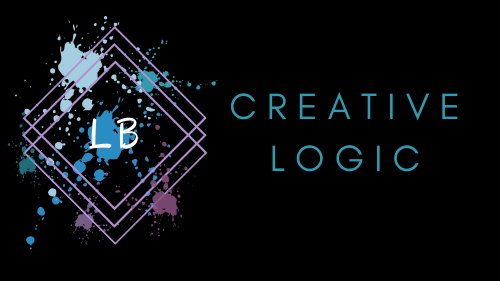
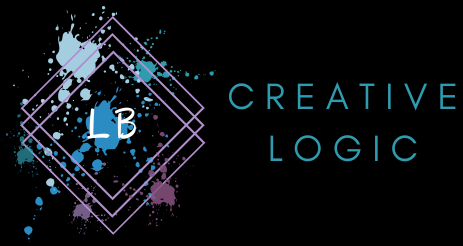
trying to fix navbar responsiveness on mobile

diff --git a/src/style.css b/src/style.css
@@ -1,5 +1,5 @@
 /* General layout */
-html,
+
 body {
   font-family: Verdana, Geneva, sans-serif;
   color: #453f37;
@@ -7,9 +7,9 @@ body {
   align-items: center;
   width: 100vw;
   background: #fff url("/static/brushed-alum.png");
-}
-body {
   margin: 0;
+  padding: 0;
+  /* overflow-x: hidden; */
 }
 h1 {
   font-family: "Sedgwick Ave", cursive;
@@ -30,6 +30,10 @@ h6 {
   margin: 0 5vw;
 }
 /* Navbar */
+nav.navbar {
+  padding: 0.25rem !important;
+}
+
 .nav-link {
   font-family: "Architects Daughter", cursive;
   font-size: 1.5rem;
@@ -115,4 +119,31 @@ form {
 }
 .form-label {
   padding-left: 0.5rem;
+}
+
+/* Media Queries */
+/* items below xs breakpoint */
+@media (max-width: 575.98px) {
+  nav > div.justify-content-center.container {
+    padding-right: 1em;
+    height: 20vh !important;
+    width: 80vw !important;
+    /* -webkit-transform: scale(0.85);
+    -moz-transform: scale(0.85);
+    -o-transform: scale(0.85);
+    transform: scale(0.85); */
+  }
+  .card-img.project-img {
+    max-width: 150px !important;
+    max-height: 150px !important;
+  }
+  .card-header {
+    padding: 0.75rem;
+  }
+}
+
+@media (min-width: 768px) and (max-width: 800px) {
+  .nav-link {
+    font-size: 1.25rem;
+  }
 }

diff --git a/src/components/layout.js b/src/components/layout.js
@@ -1,4 +1,5 @@
 import Head from "next/head";
+// import {Container} from "react-bootstrap"
 
 import "../style.css";
 import Navigation from "./nav";
@@ -33,10 +34,12 @@ export default ({ children }) => (
     </Head>
 
     <Navigation />
-    <main id="main-container">
-      <div id="content-wrap">{children}</div>
+    {/* <Container fluid> */}
+      <main id="main-container">
+        <div id="content-wrap">{children}</div>
 
-      <Footer />
-    </main>
+        <Footer />
+      </main>
+    {/* </Container> */}
   </div>
 );

diff --git a/src/components/nav.js b/src/components/nav.js
@@ -20,7 +20,6 @@ const Navigation = () => (
       borderBottom: "10px solid #B1DDF1",
       height: "30vh",
       width: "100vw",
-      padding: "0.25rem !important",
     }}
     collapseOnSelect
     variant="dark"
@@ -28,7 +27,7 @@ const Navigation = () => (
   >
     <Logo />
 
-    <Navbar.Toggle aria-controls="nav-menu" style={{fontSize: "1rem"}} />
+    <Navbar.Toggle aria-controls="nav-menu" />
 
     <Navbar.Collapse className="nav-menu justify-content-end mr-2 pr-2">
       {links.map(({ key, href, label }) => (

diff --git a/src/components/logo.js b/src/components/logo.js
@@ -7,12 +7,10 @@ const Logo = () => (
     style={{
       width: "auto",
       height: "25vh",
-      margin: "auto",
-      padding: "2px !important"
     }}
   >
     <Link href="/" passHref>
-      <NavbarBrand style={{ height: "inherit", margin: "auto", width: "auto" }}>
+      <NavbarBrand style={{ height: "inherit", width: "auto", float: "left" }}>
         <img
           style={{ height: "inherit", width: "inherit" }}
           src="/static/creativelogic_long-black.png"
